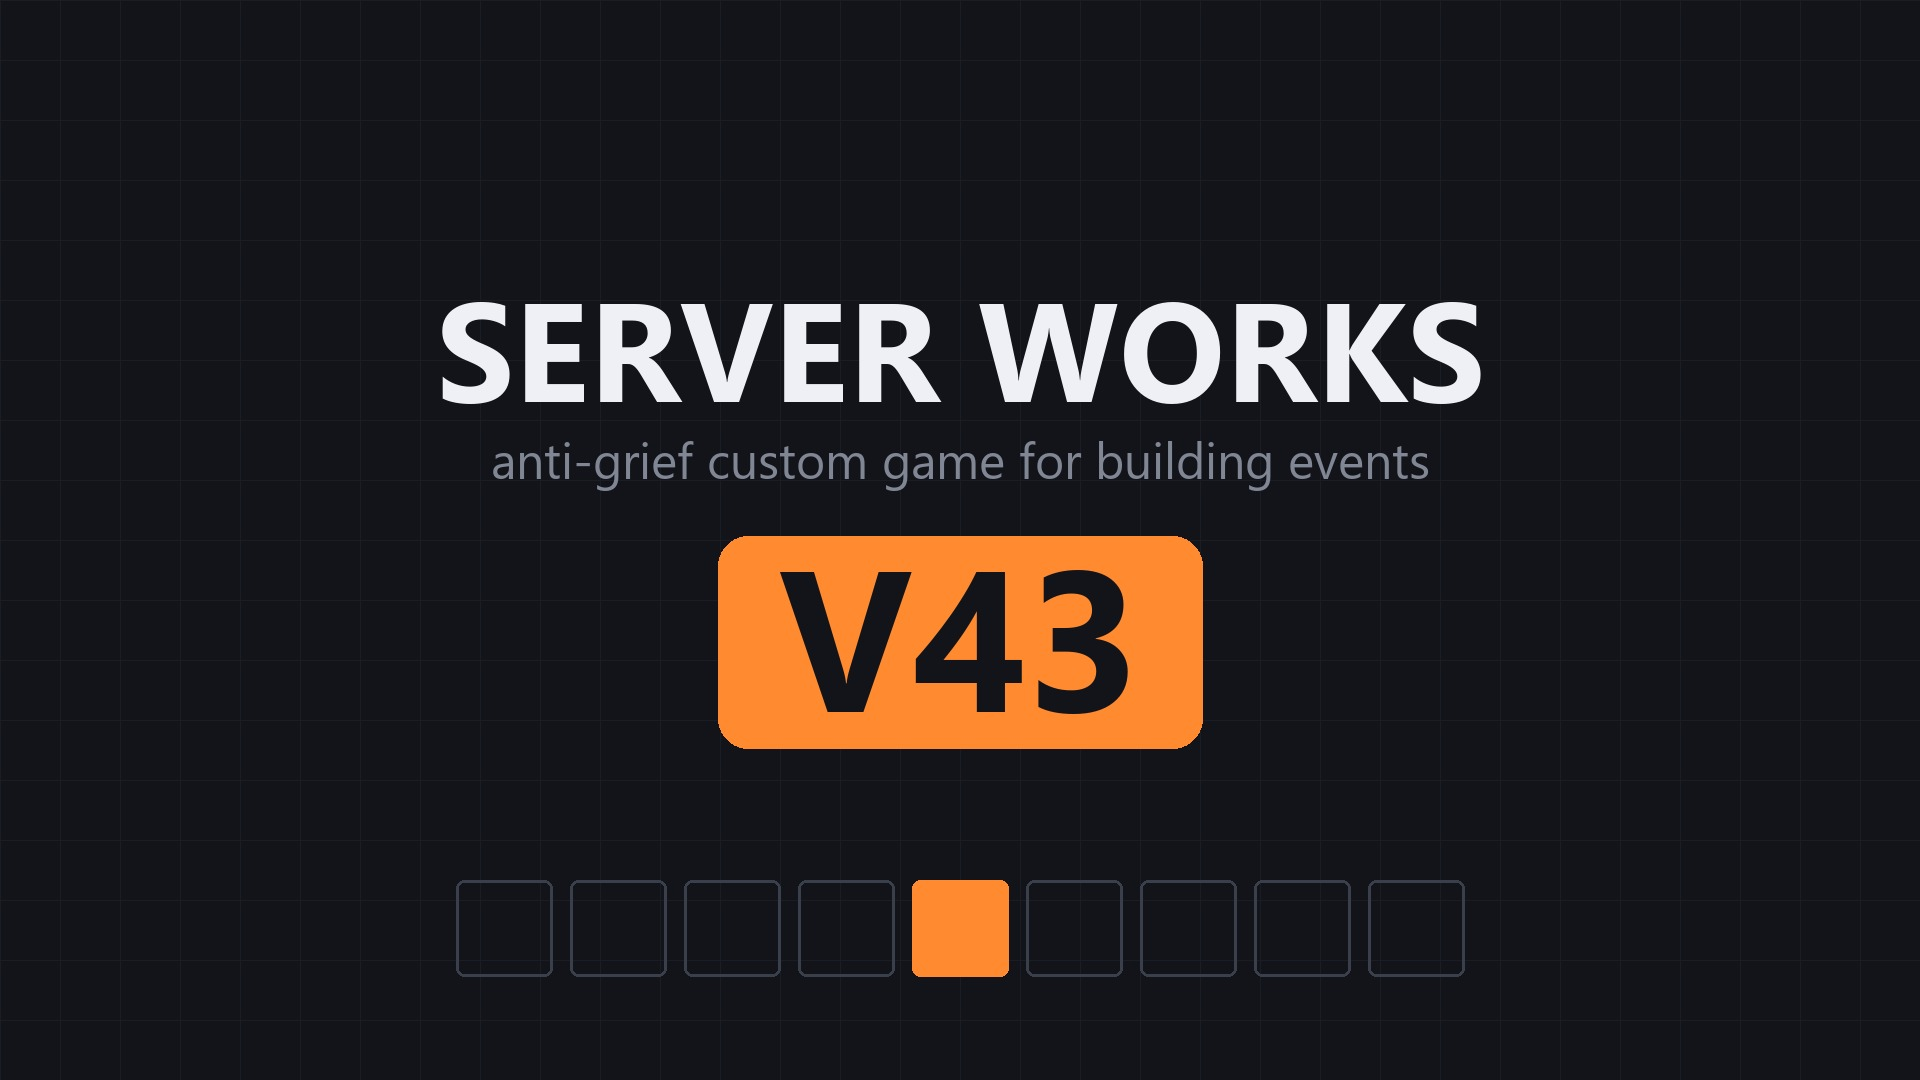
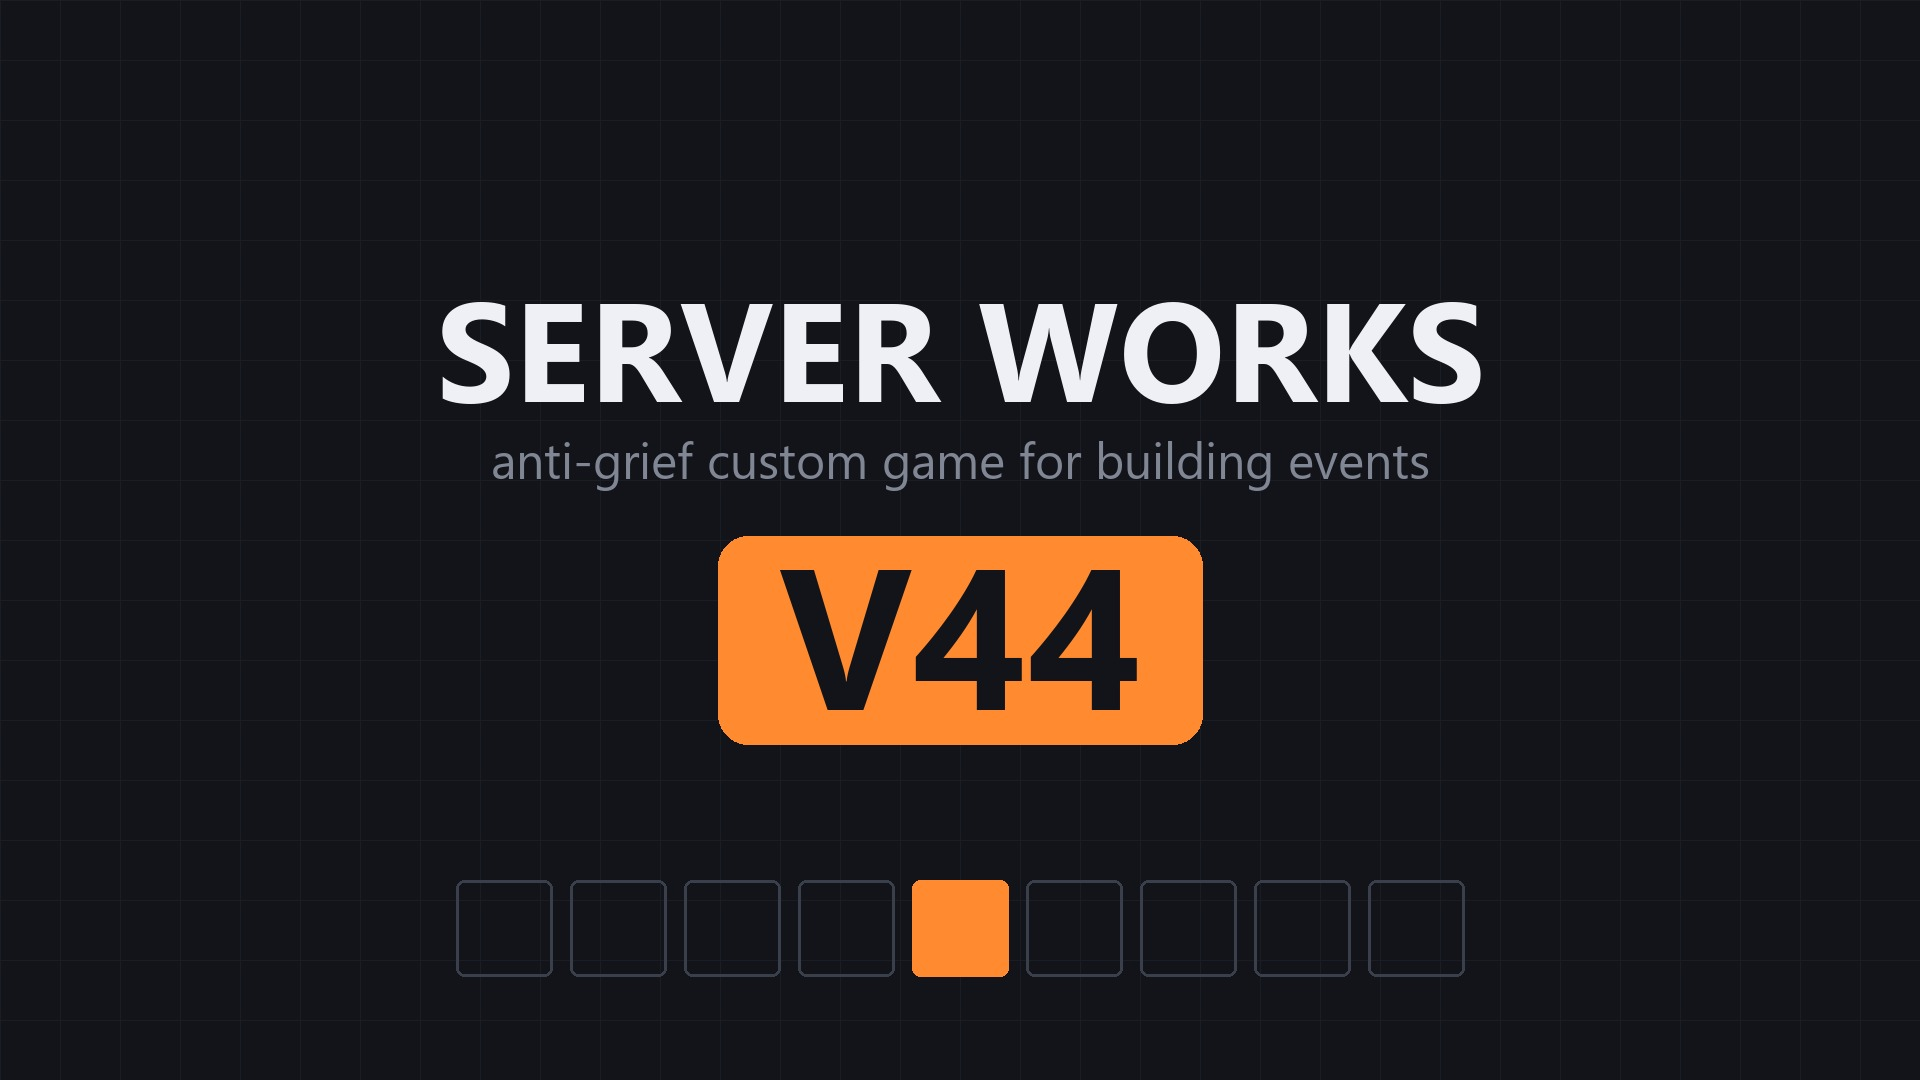
V44: the crash was a redraw from inside a widget's own callback
"game crashed when I tried to change the number of build time." The log
ends mid-line: no Lua error, no shutdown sequence. A hard crash.

Redrawing a panel from inside a widget's own callback destroys the widget
that is currently running. V30 found that for close() and a click, where it
silently killed the rest of the handler. An EditBox also holds the keyboard
focus, so destroying one mid-callback leaves the engine holding a pointer
to something that is gone -- not a Lua error, a crash.

Vanilla does render from inside its text callback (DigitalSign.lua:149) --
but it re-renders the SAME table, mutated in place. We build a fresh tree
every time. The difference is the crash.

Redraws are queued now, exactly like closes: cl_renderLater /
cl_drainRenders, drained beside them at the top of client_onFixedUpdate.
Not just the text box -- all six in-callback redraws including the
steppers, which had merely not crashed yet. The check fails on any cl_on*
handler that calls cl_showPanel or a closer directly, and was written by
putting one back. The typed-time handler is wrapped end to end and logs
once, because it runs on a keypress.

Also from that log: gui canvas 1720x720 on a 3440x1440 monitor. getViewSize
is exactly HALF getScreenSize, which confirms V33 was measuring the right
thing and gives the real number. SettingsGui is 1120x690 in a 720-tall
canvas -- thirty units of headroom.

And "GRIEF ALARM: 628 shapes lost" seconds after a rebuild: clearing the
[…]

Changed region(s): [[0.375, 0.5194, 0.625, 0.7028], [0.4688, 0.5806, 0.5, 0.6111], [0.4062, 0.5194, 0.4375, 0.55]]

diff --git a/dev/test_logic.py b/dev/test_logic.py
@@ -1518,8 +1518,8 @@ def only_one_interactive_gui_exists():
         ". They share self.cl.panelGui -- see Game.cl_showPanel.")
 
 
-def no_gui_callback_closes_its_own_panel():
-    """A click handler must never call close() -- directly or via a helper.
+def no_gui_callback_touches_its_own_panel():
+    """A widget callback must never close OR redraw its own panel.
 
     THE bug behind three versions of "the buttons dont work", and it is one line
     of ordering:
@@ -1553,9 +1553,22 @@ def no_gui_callback_closes_its_own_panel():
         for call in re.findall(r"cl_close\w+", body):
             if call != "cl_closeLater":
                 offenders.append(f"{name} calls {call}")
+        # A REDRAW is the same hazard. Building a new tree destroys every widget
+        # the old one had, including the one whose callback is running. For a
+        # click that silently killed the handler; for an EditBox, which also
+        # holds the keyboard focus, it crashed the game outright --
+        # "game crashed when I tried to change the number of build time",
+        # and the log ends mid-line with no error and no shutdown.
+        if "cl_showPanel(" in body:
+            offenders.append(f"{name} renders directly -- use cl_renderLater")
     assert not offenders, (
-        "a GUI callback closes a panel directly; everything after the close is "
-        "dead code. Use cl_closeLater. " + "; ".join(offenders))
+        "a GUI callback touches its own panel; the widget running the callback "
+        "is destroyed underneath it. Use cl_closeLater / cl_renderLater. "
+        + "; ".join(offenders))
+
+    assert "self:cl_drainRenders()" in game, (
+        "nothing drains the deferred render queue, so a queued redraw would "
+        "never happen")
 
     assert "self:cl_drainCloses()" in game, (
         "nothing drains the deferred close queue, so panels queued for closing "
@@ -1563,6 +1576,8 @@ def no_gui_callback_closes_its_own_panel():
     tick = game[game.index("function Game.client_onFixedUpdate"):]
     assert "cl_drainCloses" in tick[:600], (
         "cl_drainCloses is not called early in client_onFixedUpdate")
+    assert "cl_drainRenders" in tick[:600], (
+        "cl_drainRenders is not called early in client_onFixedUpdate")
 
 
 def every_command_a_panel_sends_is_answered():
@@ -2265,8 +2280,8 @@ def main():
     check("plumbing: every command a panel sends is answered",
           every_command_a_panel_sends_is_answered)
     check("plumbing: every button reaches a branch", every_button_reaches_a_branch)
-    check("plumbing: no gui callback closes its own panel",
-          no_gui_callback_closes_its_own_panel)
+    check("plumbing: no gui callback closes or redraws its own panel",
+          no_gui_callback_touches_its_own_panel)
     check("plumbing: the panels share one interactive gui",
           only_one_interactive_gui_exists)
 

diff --git a/CLAUDE.md b/CLAUDE.md
@@ -271,6 +271,11 @@ put the event clock off the edge of the screen where it could not be seen at all
 | `sm.gui.getScreenSize()` | the **window**. Reported 3440x1440 on this owner's monitor |
 | `sm.jsonGui.getViewSize()` | the **canvas widget units are in**. What every coordinate here means |
 
+**MEASURED**, 2026-08-24 on a 3440x1440 monitor: `getScreenSize` said 3440x1440
+and **`getViewSize` said 1720x720** — exactly half. So a panel is measured in a
+space about half the window's width, and `SettingsGui` at 1120x690 is within 30
+units of the canvas height. Anything taller would be off screen.
+
 They are different numbers. The game ships GUI skins for exactly four reference
 resolutions — `1280x720`, `1920x1080`, `2560x1440`, `3840x2160`
 (`Data/Gui/Resolutions/`) — and picks one, so a 3440x1440 monitor is not a
@@ -576,7 +581,7 @@ the ones that opened a **second panel**; the ones that worked answered in
 **chat**. `/guitest` stays in the mod — five tests, client-only — as the fastest
 way to re-establish ground truth after a game update.
 
-### NEVER close a json GUI from inside its own callback
+### NEVER close OR REDRAW a json GUI from inside its own callback
 
 **This one bug accounted for every "the buttons dont work" report in the
 project**, across three versions, and it is a single line of ordering:
@@ -609,8 +614,26 @@ time. So closes are **queued and drained on the next tick** (`cl_closeLater` /
 destroyed while its own callback is running, because that callback has returned.
 A check asserts no `cl_on*` handler calls a closer directly.
 
+**A REDRAW is the same hazard, and it is worse.** Building a new tree destroys
+every widget the old one had, including the one whose callback is running. For a
+click that silently killed the handler. For an **EditBox** — which also holds the
+keyboard focus — it **crashed the game outright**: *"game crashed when I tried to
+change the number of build time"*, and the log ends mid-line with no Lua error
+and no shutdown sequence.
+
+Vanilla does render from inside a text callback (`DigitalSign.lua:149`) — but it
+re-renders the **same table**, mutated in place. Building a fresh tree is not the
+same thing, and the difference is a native crash.
+
+So redraws are queued too: `cl_renderLater` / `cl_drainRenders`, drained beside
+the closes at the top of `client_onFixedUpdate`. One tick of latency on a
+stepper press is imperceptible; the bug class is gone.
+
 Corollary: **an `onClose` handler must only drop the handle**, never call
 `close()` again — that is the same bug from the other direction.
+
+The check forbids any `cl_on*` handler from calling `cl_showPanel` or a closer
+directly.
 
 ### A panel that closes on every click cannot be told from a broken one
 

diff --git a/docs/CHANGELOG.md b/docs/CHANGELOG.md
@@ -10,6 +10,52 @@ was most of them.
 
 ---
 
+## V44 — the crash, and the canvas is half the screen
+
+*"game crashed when I tried to change the number of build time."*
+
+The log ends mid-line: no Lua error, no shutdown sequence. A hard crash.
+
+**Redrawing a panel from inside a widget's own callback destroys the widget that
+is currently running.** V30 found that for `close()` and a click, where it
+silently killed the rest of the handler. An `EditBox` also holds the keyboard
+focus, so destroying one mid-callback leaves the engine holding a pointer to
+something that no longer exists — and that is not a Lua error, it is a crash.
+
+Vanilla *does* render from inside its text callback (`DigitalSign.lua:149`) — but
+it re-renders the **same table**, mutated in place. We build a fresh tree every
+time. Not the same thing, and the difference is the crash.
+
+So redraws are now queued exactly like closes: `cl_renderLater` /
+`cl_drainRenders`, drained beside them at the top of `client_onFixedUpdate`. **Not
+just the text box** — all six in-callback redraws, including the steppers, which
+had merely not crashed yet. One tick of latency on a button press is
+imperceptible; the whole class is gone. The check now fails on any `cl_on*`
+handler that calls `cl_showPanel` or a closer directly, and it was written by
+putting one back.
+
+The typed-time handler is also wrapped end to end and logs once. It runs on a
+keypress, and finding out about a Lua error there mid-event is not acceptable.
+
+### The canvas is HALF the screen
+
+Also from that log, and worth having: `gui canvas 1720x720` on a 3440x1440
+monitor. `getScreenSize` says 3440x1440; **`getViewSize` says 1720x720** — exactly
+half. So widget coordinates live in a space about half the window's width, which
+confirms V33's fix was measuring the right thing and gives the real number at
+last. Worth noting `SettingsGui` is 1120x690 in a 720-tall canvas: thirty units
+of headroom, and anything taller would be off screen.
+
+### Rebuilding the city is not griefing
+
+`GRIEF ALARM: 628 shapes lost`, seconds after a rebuild. Clearing the old city
+*is* a mass deletion — it is just ours. An alarm that cries wolf every time the
+host lays out the city is one nobody will believe at the moment it matters, so
+`sv_buildFloor` quiets it for two minutes the way `/purge` and `/restore` already
+do.
+
+---
+
 ## V43 — the floor is the builder's while the clock is running
 
 *"theoretical explanation its because its connected to the rest. so look. the
